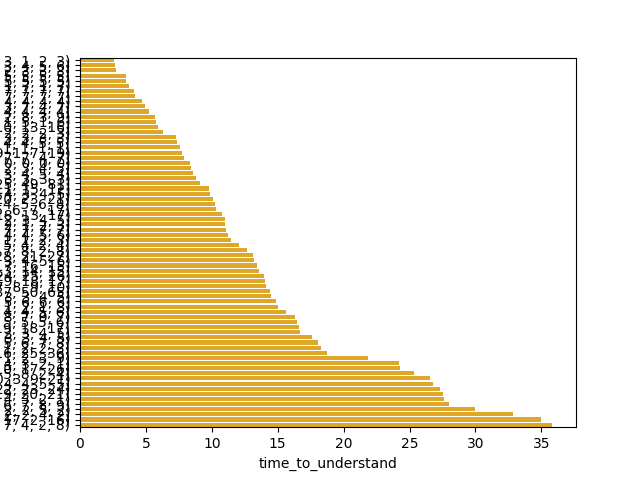
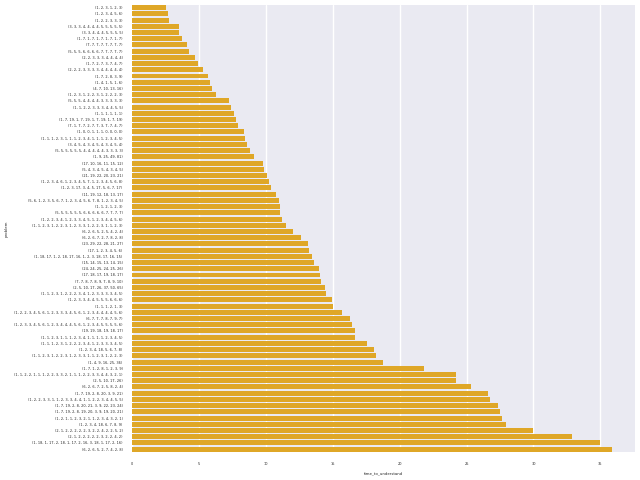
Fixes labels

Changed region(s): [[0.0, 0.0, 0.9688, 1.0]]

diff --git a/plot.py b/plot.py
@@ -1,6 +1,9 @@
 import seaborn           as sns
 import matplotlib.pyplot as plt
 
+from matplotlib import rcParams
+rcParams.update({'figure.autolayout': True})
+
 from pprint import pprint
 
 colors = ["windows blue", "amber", "greyish", "faded green", "dusty purple"]
@@ -10,17 +13,28 @@ amber= sns.xkcd_palette(['amber'])
 
 purple = sns.xkcd_palette(['dusty purple'])
 
+def barsave(df, metric, s):
+    if s:
+        pal = amber
+        s = 'sorted'
+    else:
+        pal = purple
+        s = 'unsorted'
+    sns.barplot(x=metric, y='problem', palette=pal, data=df)
+    plt.tight_layout()
+    plt.savefig('plots/{}_{}.png'.format(metric, s))
+    plt.clf()
+
 def barplot(df):
+    sns.set(font_scale=.25)
     #pprint(list(df.columns.values))
     for metric in ['total_typing_time', 'time_to_understand']:
+        barsave(df, metric, False)
+
         df2  = df.groupby('problem', as_index=False)[metric].mean()
         df2  = df2.sort_values(metric).reset_index(drop=True)
-        sns.barplot(x=metric, y='problem', palette=amber,  data=df2)
-        plt.savefig('plots/{}_{}.png'.format(metric, 'sorted'))
-        plt.clf()
-        sns.barplot(x=metric, y='problem', palette=purple, data=df)
-        plt.savefig('plots/{}_{}.png'.format(metric, 'unsorted'))
-        plt.clf()
+        barsave(df2, metric, True)
+    sns.set(font_scale=1)
 
 def plot(df):
     barplot(df)
